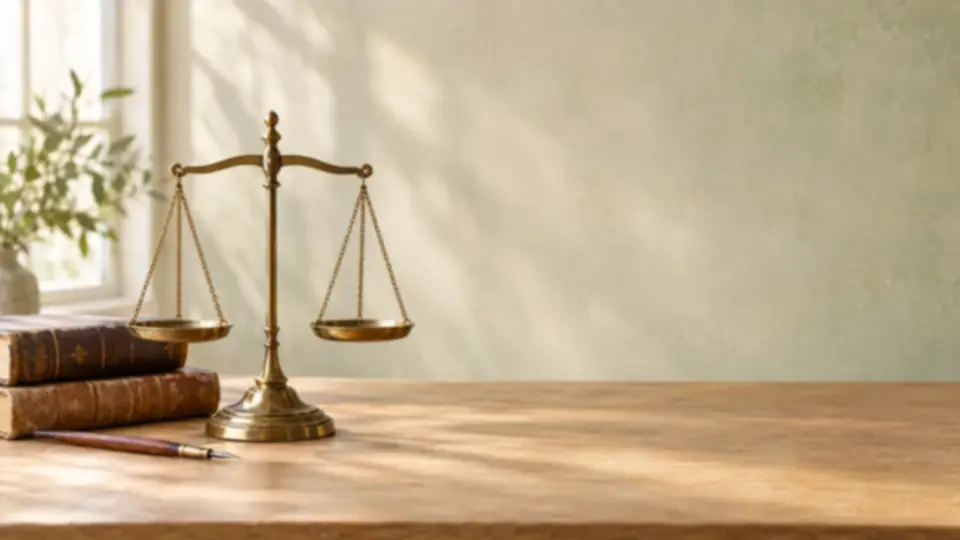
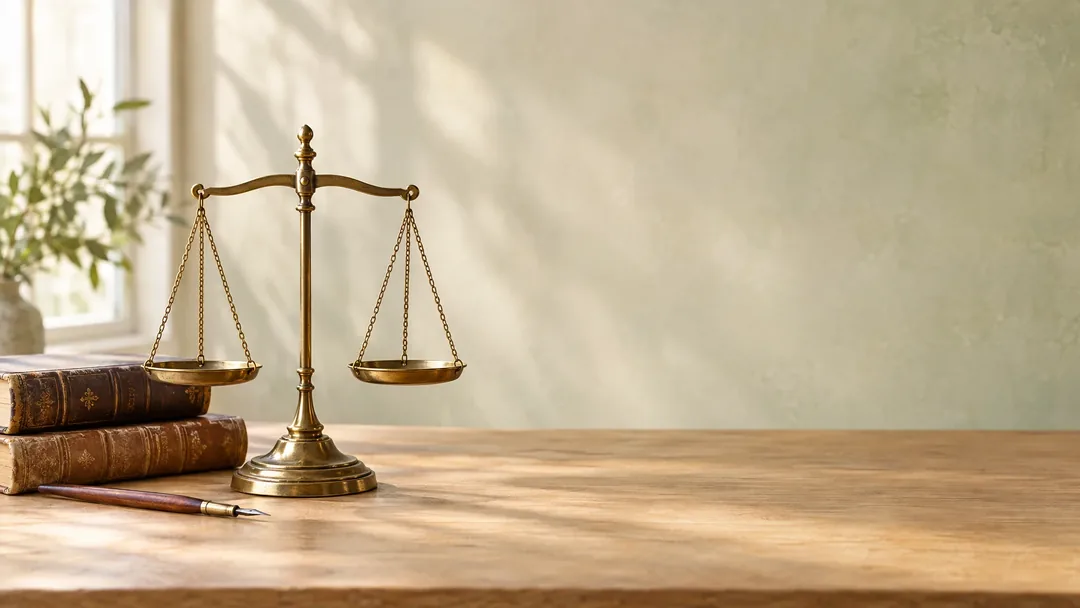
Hero photograph runs under the header, at full sharpness (#28)
- The image starts behind the header so both read as one surface; the header
  is clear over the photo and turns solid once the page scrolls.
- The photograph is no longer blurred and is saved at full resolution.

diff --git a/web/style.css b/web/style.css
@@ -283,12 +283,14 @@ body[data-mode=app] #app{animation:fade-in .3s ease-out both}
 .land-brand.small span{font-size:22px}
 .land-actions{display:flex;align-items:center;gap:16px}
 .land-actions .quiet{font-size:15px}
-.land-hero{position:relative;isolation:isolate;min-height:min(78svh,720px);display:flex;align-items:center;padding:48px 0 80px}
+.land-hero{position:relative;isolation:isolate;min-height:min(86svh,800px);display:flex;align-items:center;margin-top:-88px;padding:136px 0 80px}
 /* the study photograph, blurred and veiled in the page colour, fading out at the bottom: depth without edges */
 .land-hero::before{content:"";position:absolute;inset:0;z-index:-1;background:linear-gradient(to left,#f6f5f0f2 0%,#f6f5f0cc 30%,#f6f5f066 52%,transparent 68%),linear-gradient(to bottom,transparent 70%,var(--bg) 100%),image-set(url(/static/img/hero-light.webp) 1x) left center/cover no-repeat}
 /* the header sits above the hero's backdrop */
 /* the header stays at the top while you scroll */
-.land-bar{position:sticky;top:0;z-index:20;background:#f6f5f0e8;-webkit-backdrop-filter:blur(12px);backdrop-filter:blur(12px)}
+/* the header lies on the photograph, then turns solid once the page scrolls */
+.land-bar{position:sticky;top:0;z-index:20;background:transparent;transition:background-color .3s ease,box-shadow .3s ease}
+.land-bar.solid{background:#f6f5f0eb;-webkit-backdrop-filter:blur(12px);backdrop-filter:blur(12px);box-shadow:0 1px 12px #1c302c14}
 .hero-grid{display:flex;justify-content:flex-start;width:100%}
 .land-copy{max-width:600px}
 .principle{margin:0}
@@ -380,8 +382,8 @@ dialog[open],dialog[open]::backdrop{animation:fade-in .2s ease-out}
   .landing{padding:0 16px}
   .land-wrap{padding:0 16px}
   .land-bar .land-wrap{height:72px}
-  .land-hero{min-height:0;align-items:flex-end;padding:300px 0 36px}
-  .land-hero::before{background:linear-gradient(to bottom,transparent 0%,transparent 34%,#f6f5f0e6 52%,var(--bg) 70%),url(/static/img/hero-light-960.webp) 18% top/auto 340px no-repeat}
+  .land-hero{min-height:0;align-items:flex-end;margin-top:-72px;padding:372px 0 36px}
+  .land-hero::before{background:linear-gradient(to bottom,transparent 0%,transparent 34%,#f6f5f0e6 52%,var(--bg) 70%),url(/static/img/hero-light-960.webp) 18% top/auto 412px no-repeat}
   .principle p span{white-space:normal}
   .land-brand span{font-size:26px}
   .land-actions{gap:8px}

diff --git a/web/app.js b/web/app.js
@@ -119,6 +119,9 @@ $('#auth-form').addEventListener('submit',async e=>{
  }catch(err){error.textContent=err.message;error.hidden=false;}
  finally{submit.disabled=false;submit.classList.remove('busy');}
 });
+// Landing header: clear over the photograph, solid once the page scrolls.
+const landBar=$('.land-bar'),solidBar=()=>landBar.classList.toggle('solid',window.scrollY>12);
+window.addEventListener('scroll',solidBar,{passive:true});solidBar();
 // The landing wordmark returns to the top.
 $('.land-brand').addEventListener('click',e=>{e.preventDefault();window.scrollTo({top:0});});
 
